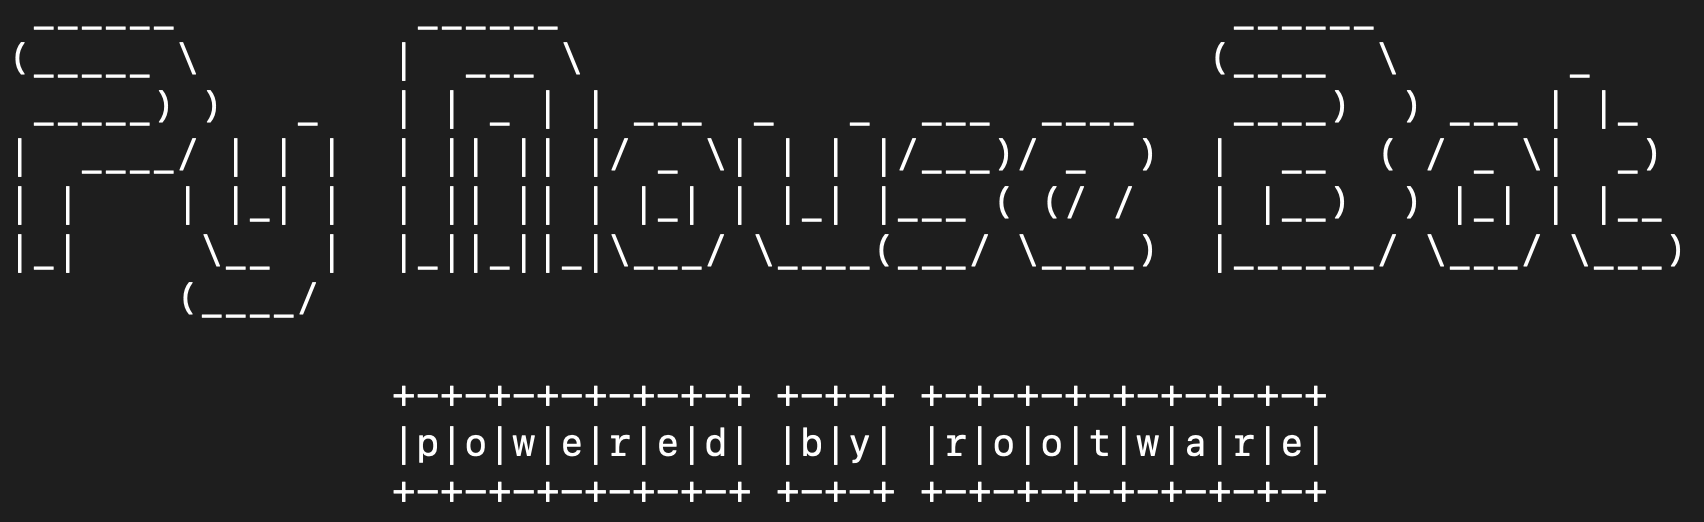
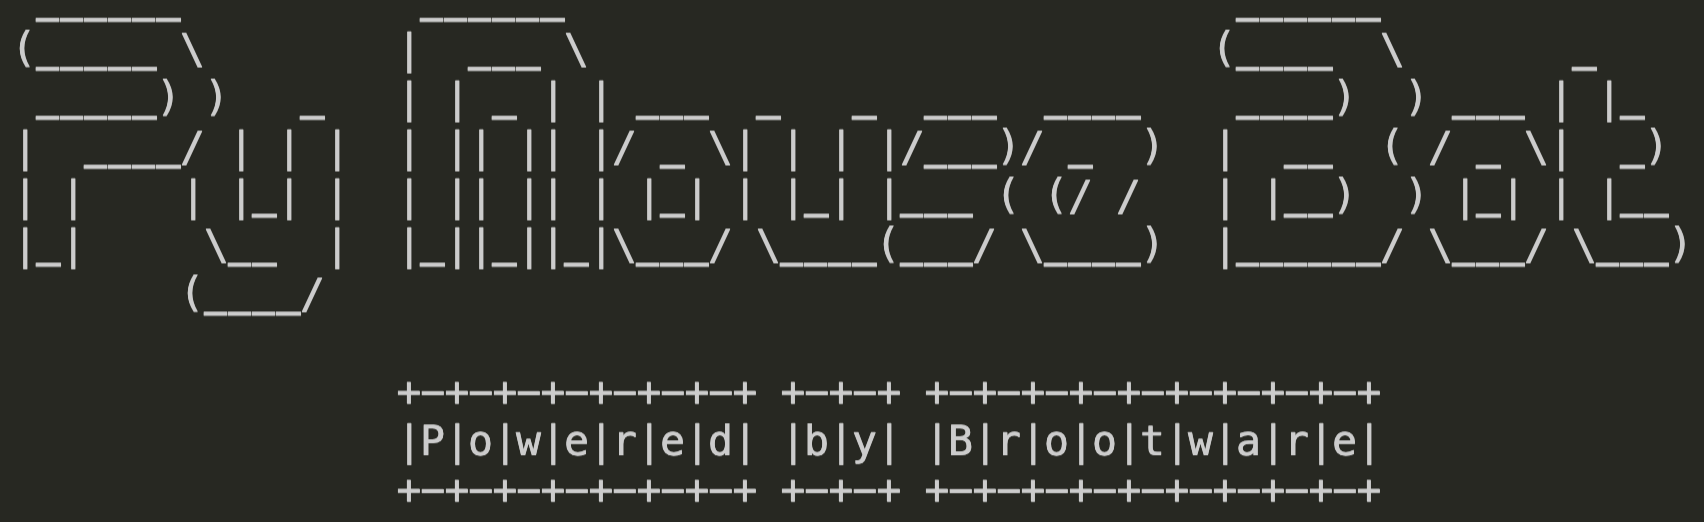
changed ascii art

diff --git a/README.md b/README.md
@@ -9,9 +9,9 @@
 |_|     \__  |  |_||_||_|\___/ \____(___/ \____)  |______/ \___/ \___)
        (____/                                                         
                                           
-                +-+-+-+-+-+-+-+ +-+-+ +-+-+-+-+-+-+-+-+
-                |p|o|w|e|r|e|d| |b|y| |r|o|o|t|w|a|r|e|
-                +-+-+-+-+-+-+-+ +-+-+ +-+-+-+-+-+-+-+-+
+                +-+-+-+-+-+-+-+ +-+-+ +-+-+-+-+-+-+-+-+-+
+                |P|o|w|e|r|e|d| |b|y| |B|r|o|o|t|w|a|r|e|
+                +-+-+-+-+-+-+-+ +-+-+ +-+-+-+-+-+-+-+-+-+
 ``` -->
 <p align="center">
   <img src="./asciimouse.png" alt="Python Mouse Bot!"/>
